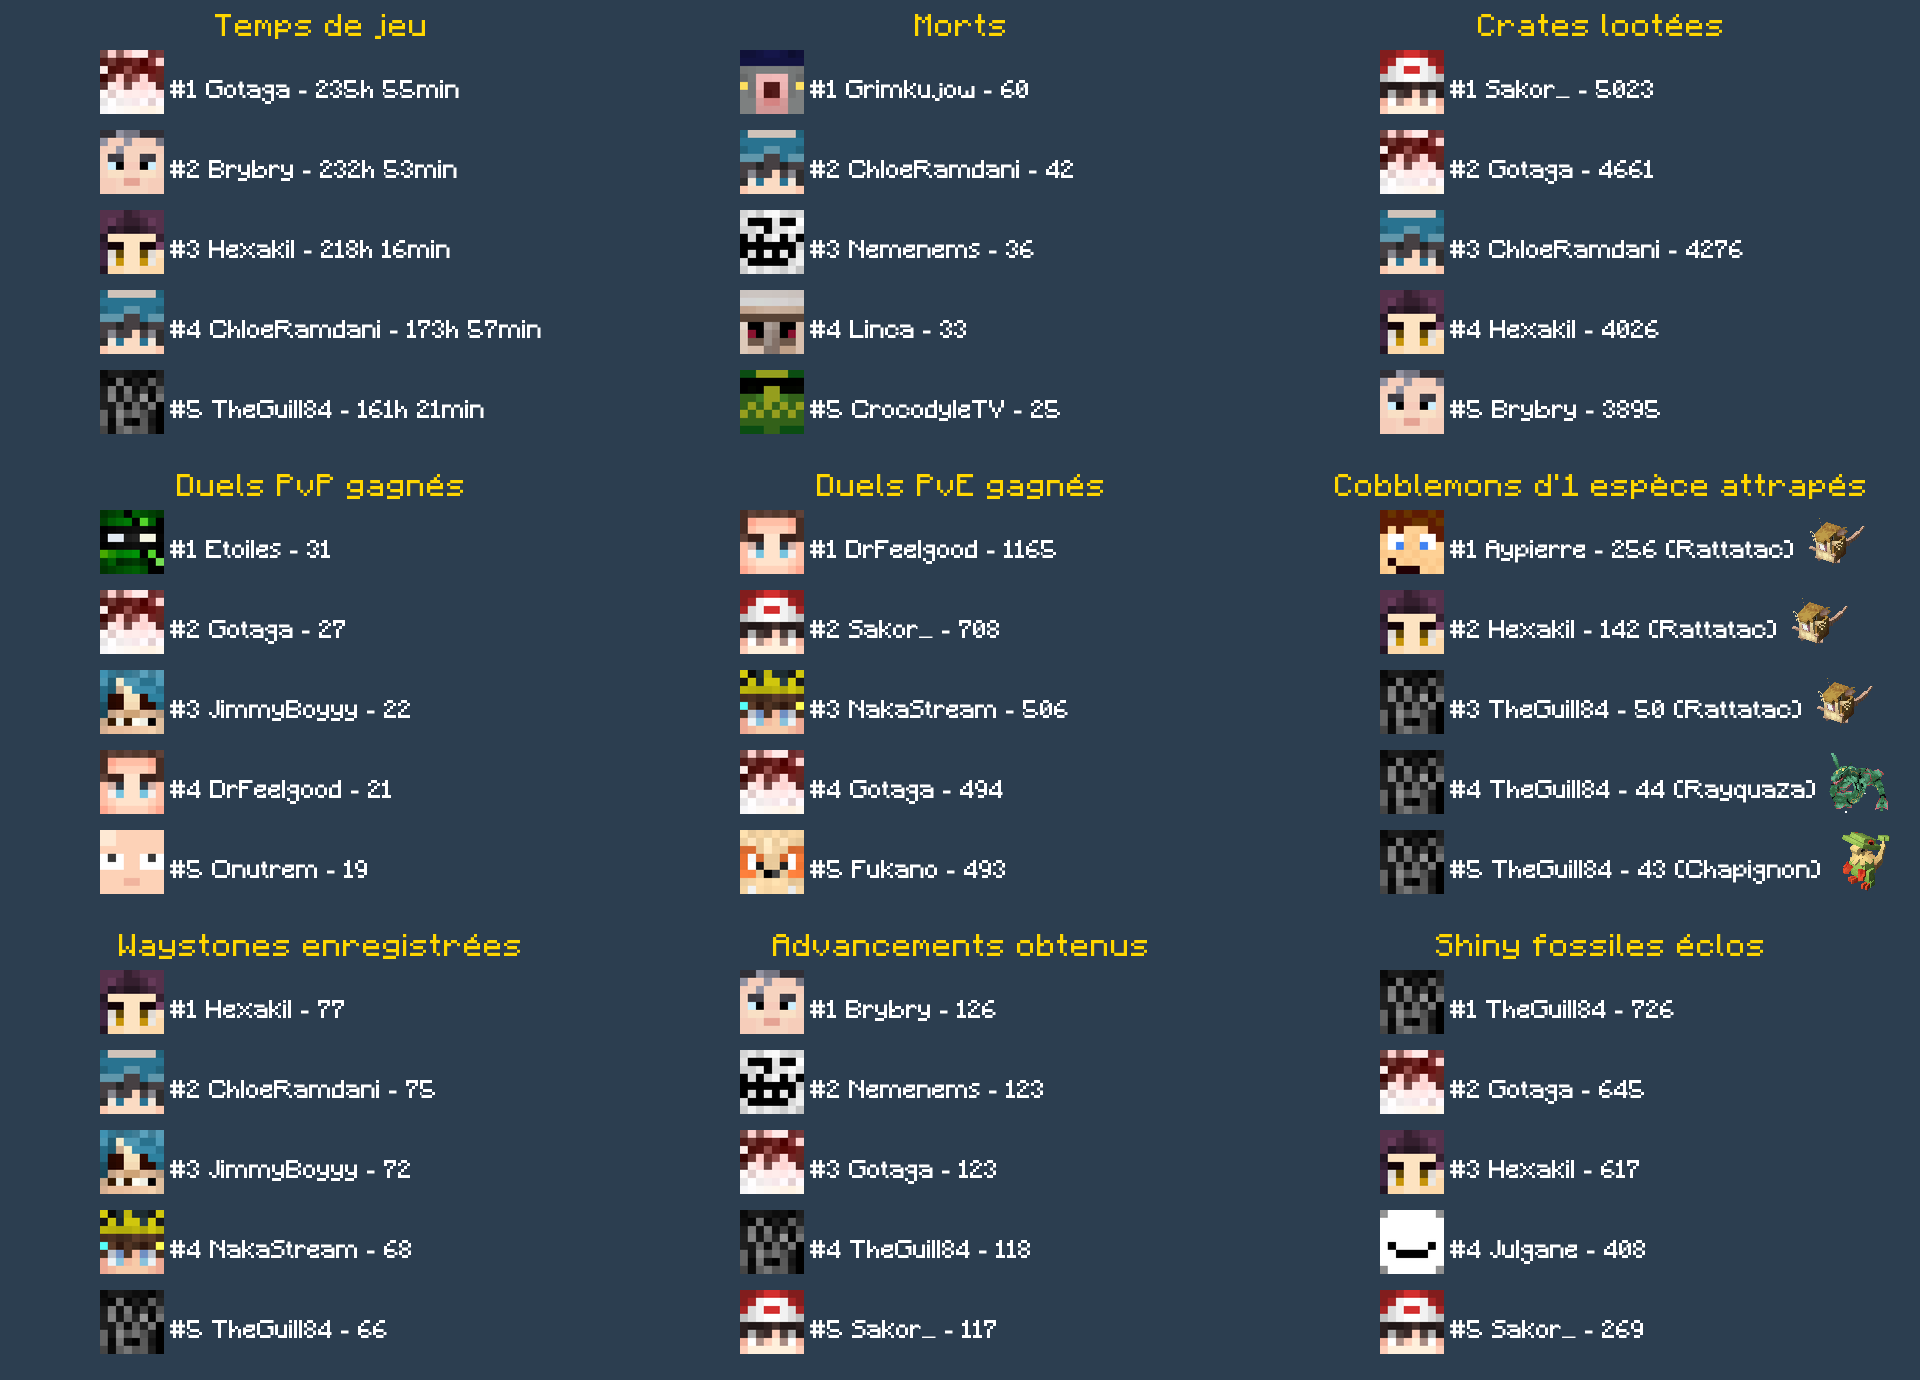
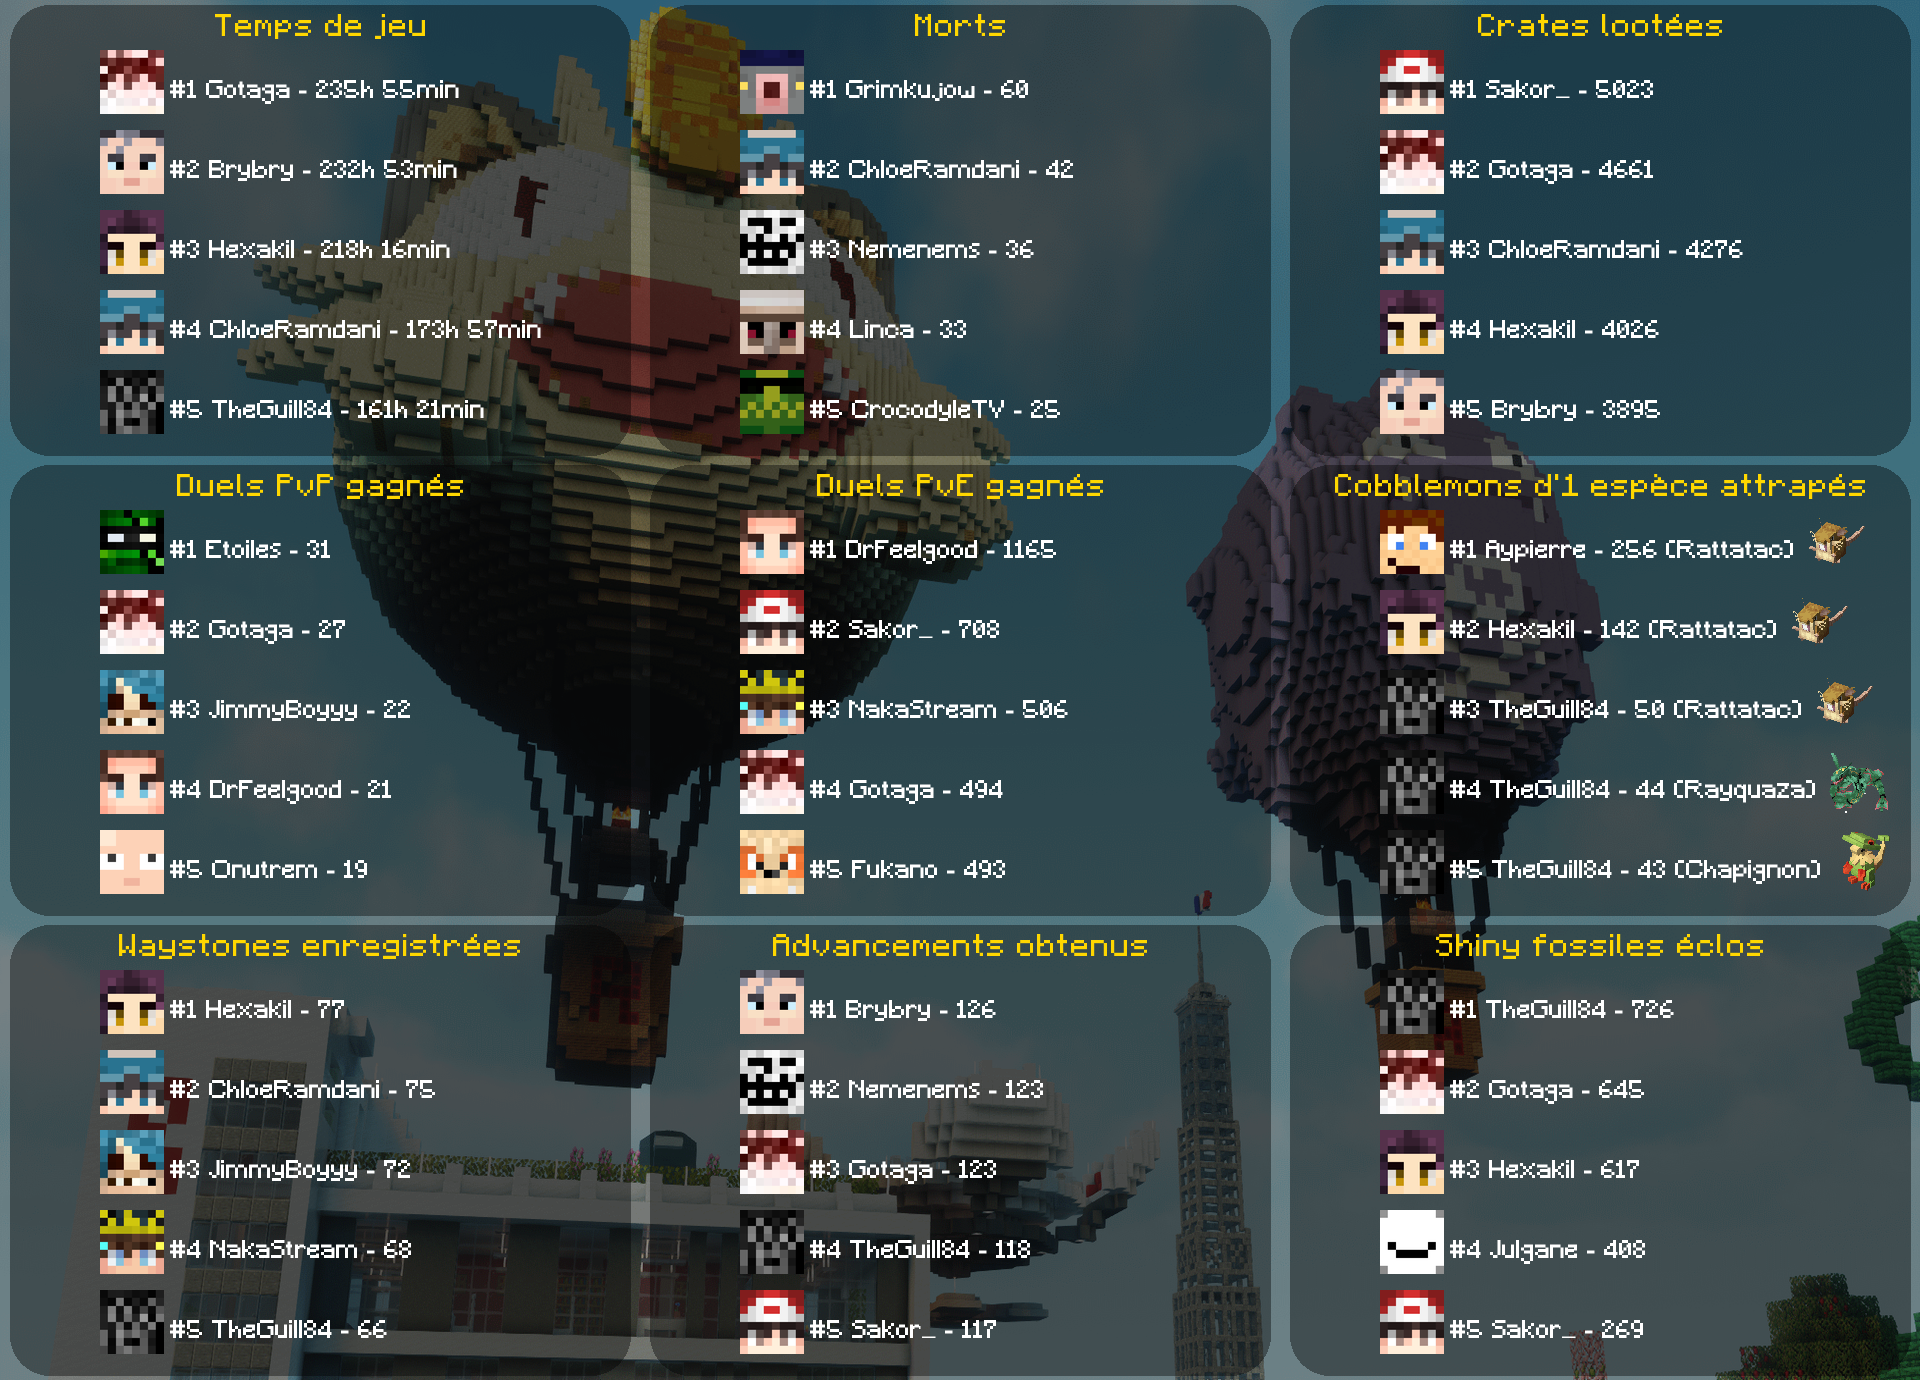
Last changes

diff --git a/main.py b/main.py
@@ -16,7 +16,7 @@ import stat
 import sqlite3
 import shutil
 import nbt
-from PIL import Image, ImageDraw, ImageFont
+from PIL import Image, ImageDraw, ImageFont, UnidentifiedImageError
 import requests
 from io import BytesIO
 import networkx as nx
@@ -694,15 +694,15 @@ def getVanillaBestAndWorst(df, username, cleaning, cleaningvalue):
     if cleaning == "true":
         before_value = df.shape[0]
         df['zero_count'] = df.apply(lambda row: (row == 0).sum(), axis=1)
-        df.drop(df[df['zero_count'] > (nb_players-int(cleaningvalue))].index, inplace=True)
+        df = df.drop(df[df['zero_count'] > (nb_players-int(cleaningvalue))].index)
         df = df.drop('zero_count', axis=1)
         print(before_value - df.shape[0], "rows dropped out of", before_value, "because of cleaning.")
     ranks = df.rank(axis=1, method='min', ascending=False)
     ranks['non_zero_values'] = df.apply(lambda row: nb_players - (row == 0).sum(), axis=1)
     ranks['value'] = df[username]
     output = ranks[[username, 'value', 'non_zero_values']].sort_values(username, ascending=False).rename(columns={username:"rank_"+username, "value":"value_"+username})
-    with pd.option_context('display.max_rows', None, 'display.max_columns', None):
-        print(output)
+    with pd.option_context('display.max_rows', None):
+        print(output) # add .to_string() for the whole output
 
 def getAdvancementsLeaderboard(df):
     count_df = pd.DataFrame((df == True).sum().sort_values())
@@ -775,10 +775,9 @@ def top_image(df_list, config, titles, special_list):
     base_width, base_height = 640, 210+int(config['TOPIMAGE']['NbPlayers'])*base_y_offset
     width, height = base_width*ldb_width, base_height*ldb_height
     # Load background image
-    background = Image.open("images/background4.png").convert("RGB")
+    background = Image.open("images/background4.png").convert("RGBA")
     background = background.resize((width, height), Image.Resampling.LANCZOS)
     img = background.copy()
-    draw = ImageDraw.Draw(img)
     
     # Import usernames to show instead of the Minecraft username
     leaderboard_usernames_df = pd.read_csv('staticdata/leaderboard_usernames.csv')
@@ -786,8 +785,14 @@ def top_image(df_list, config, titles, special_list):
     for i, df in enumerate(df_list):
         x_margin = i%ldb_width * base_width
         y_margin = math.floor(i/ldb_height) * base_height
+        # Add the rounded rectangles
+        overlay = Image.new('RGBA', img.size)
+        draw2 = ImageDraw.Draw(overlay)
+        draw2.rounded_rectangle([x_margin+10, y_margin+5, x_margin+base_width-10, y_margin+base_height-5], radius=40, fill=(0, 0, 0, 100))
+        img = Image.alpha_composite(img, overlay)
         # Title
         font = ImageFont.truetype("fonts/Minecraft-Seven_v2.ttf", 32)
+        draw = ImageDraw.Draw(img)
         _, _, w, _ = draw.textbbox((0, 0), titles[i], font=font)
         draw.text((((width/ldb_width)-w)/2 + x_margin, 10 + y_margin), titles[i], align="center", fill="gold", font=font)
         
@@ -856,7 +861,7 @@ def PvP_network(df, config):
     y_pad = (max(y_vals) - min(y_vals)) * 0.1
     xlim = (min(x_vals) - x_pad, max(x_vals) + x_pad)
     ylim = (min(y_vals) - y_pad, max(y_vals) + y_pad)
-    _, ax = plt.subplots(figsize=(12, 8), facecolor='#000000')
+    _, ax = plt.subplots(figsize=(12, 8), facecolor='#000000')  
     ax.set_xlim(xlim)
     ax.set_ylim(ylim)
     ax.imshow(plt.imread('images/background1.png'), extent=(*xlim, *ylim), aspect='auto', zorder=0)
@@ -865,7 +870,13 @@ def PvP_network(df, config):
     # Draw nodes with color mapping
     nx.draw_networkx_nodes(G, pos, node_size=(node_sizes / max(node_sizes)) * 2500 + 200, node_color=node_colors, edgecolors="#d1d1d1")
     labels = {player: leaderboard_usernames_df.loc[leaderboard_usernames_df['minecraft'] == player]['real'].iloc[0] if not leaderboard_usernames_df.loc[leaderboard_usernames_df['minecraft'] == player].empty else player for player in G.nodes()}
-    nx.draw_networkx_labels(G, pos, labels, font_size=8, font_color="white", font_weight="bold")
+    #nx.draw_networkx_labels(G, pos, labels, font_size=9, font_color="black", font_weight="bold")
+    #nx.draw_networkx_labels(G, pos, labels, font_size=8, font_color="white", font_weight="bold")
+    for node, (x, y) in pos.items():
+        # Shadow (black, slightly offset)
+        ax.text(x + 0.03, y - 0.03, labels[node], fontsize=8, color='black', zorder=2, ha="center", va="center")
+        # Main label (white, on top)
+        ax.text(x, y, labels[node], fontsize=8, color='white', zorder=3, ha="center", va="center")
 
     # Color bar
     sm = plt.cm.ScalarMappable(cmap=cmap, norm=norm)
@@ -1061,15 +1072,15 @@ def stats_pokeballs(config, ftpserver):
     df.to_csv(config['STATSPOKEBALLS']['CSVPath'])
 
 def player_card(config, username, stats_values):
-    skin_url = "https://minotar.net/armor/bust/"+username+"/500.png"
-    custom_sentence1 = "Top 1 en pose de blocs de terre"
-    custom_sentence2 = "Top 1 en récolte de baies oranges"
+    cards_df = pd.read_csv('staticdata/cards.csv')
+    custom_sentence1 = str(cards_df.loc[cards_df['name'] == username]['stat1'].iloc[0])
+    custom_sentence2 = str(cards_df.loc[cards_df['name'] == username]['stat2'].iloc[0])
+    starter_fr = str(cards_df.loc[cards_df['name'] == username]['starter_fr'].iloc[0])
     background_path = "images/background5.png"
     skins_path = "images/skins/"
     stats_labels = ["Temps de jeu", "Cobblemons attrapés", "Crates lootées", "Duels PvP gagnés", "Advancements"]
 
     # Skin image
-    response = requests.get(skin_url)
     skin_img = Image.open(skins_path+username+".png").convert("RGBA")
     skin_img = skin_img.resize((185, 185))
 
@@ -1078,14 +1089,14 @@ def player_card(config, username, stats_values):
     dpi = 299
     num_vars = len(stats_labels)
     angles = np.linspace(0, 2 * np.pi, num_vars, endpoint=False).tolist()
-    values_copy = stats_values + [stats_values[0]]
-    angles_copy = angles + [angles[0]]
+    stats_values += stats_values[:1]
     angles += angles[:1]
     # Calculate figure size in inches for desired pixel size
     fig_width, fig_height = size[0] / dpi, size[1] / dpi
     fig, ax = plt.subplots(figsize=(fig_width, fig_height), dpi=dpi, subplot_kw=dict(polar=True))
-    ax.plot(angles_copy, values_copy, color='cyan', linewidth=2)
-    ax.fill(angles_copy, values_copy, color='cyan', alpha=0.25)
+    ax.plot(angles, stats_values, color='cyan', linewidth=2)
+    ax.fill(angles, stats_values, color='cyan', alpha=0.25)
+    ax.set_ylim(0, 1)
     ax.set_yticklabels([])
     ax.set_xticks(angles[:-1])
     ax.grid(True, linestyle='dotted', color='gray')
@@ -1103,7 +1114,7 @@ def player_card(config, username, stats_values):
     radar_chart_img = radar_chart_img.resize(size, Image.Resampling.LANCZOS)
 
     # Create the card
-    card_width, card_height = 700, 400
+    card_width, card_height = 700, 450
     if not os.path.exists(background_path):
         raise FileNotFoundError(f"Background image not found at '{background_path}'")
     background_img = Image.open(background_path).convert("RGBA")
@@ -1130,6 +1141,19 @@ def player_card(config, username, stats_values):
     draw_text_with_shadow(draw, (30, 250), display_name, font_title, fill=(255, 255, 255))
     draw_text_with_shadow(draw, (30, 310), custom_sentence1, font_sentence, fill=(200, 200, 200))
     draw_text_with_shadow(draw, (30, 350), custom_sentence2, font_sentence, fill=(200, 200, 200))
+    draw_text_with_shadow(draw, (30, 400), "Starter : "+starter_fr, font_sentence, fill=(230, 230, 230))
+    translations_df = pd.read_csv('staticdata/pokemon_translations.csv')
+    if starter_fr != "nan":
+        starter_en = translations_df.loc[translations_df['fr'] == starter_fr]['en'].iloc[0]
+        # Tailow is spelled Taillow on the Cobblemon website
+        if starter_en == "Tailow": starter_en = "Taillow"
+        try:
+            response = requests.get("https://cobblemon.tools/pokedex/pokemon/"+starter_en.lower()+'/sprite.png')
+            cobblemon_icon = Image.open(BytesIO(response.content)).resize((64, 64), Image.Resampling.NEAREST)
+            _, _, w, _ = draw.textbbox((0, 0), "Starter : "+starter_fr, font=font_sentence)
+            card.paste(cobblemon_icon, (w + 40, 380), cobblemon_icon)
+        except (ValueError, UnidentifiedImageError):
+            print("Warning: icon for "+starter_en+" could not be found.")
     # Save the card
     output_path = config['PLAYERCARDS']['ImagePath']+"/"+username+".png"
     card.save(output_path)
@@ -1330,7 +1354,11 @@ if config['STATSPOKEBALLS']['Enable'] == "true":
 if config['PLAYERCARDS']['Enable'] == "true":
     print("Now creating player cards...")
     i = 0
-    for player in vanilla_df.drop('zero_count', axis=1).columns:
+    try:
+        df = vanilla_df.drop('zero_count', axis=1)
+    except KeyError:
+        df = vanilla_df
+    for player in df.columns:
         if i%10==0: print("Processing player no", i)
         # Start by downloading the skin image if it is not already downloaded
         destination_path = "images/skins/"+player+".png"
@@ -1349,7 +1377,7 @@ if config['PLAYERCARDS']['Enable'] == "true":
                         vanilla_df.loc['stats'].loc['minecraft:custom'].loc['lootr:looted_stat'].max(),
                         getStandardLeaderboard(cobblemon_df2.loc["totalPvPBattleVictoryCount"]).max(),
                         getAdvancementsLeaderboard(advancements_df).max()]
-            # Scale 0-100
+            # Scale 0-1
             stats_values = [vanilla_df.loc['stats'].loc['minecraft:custom'].loc['minecraft:play_time'][player]/stats_max[0],
                             (leaderboards["cobblemon_total"].loc[player]/stats_max[1]).iloc[0],
                             vanilla_df.loc['stats'].loc['minecraft:custom'].loc['lootr:looted_stat'][player]/stats_max[2],
